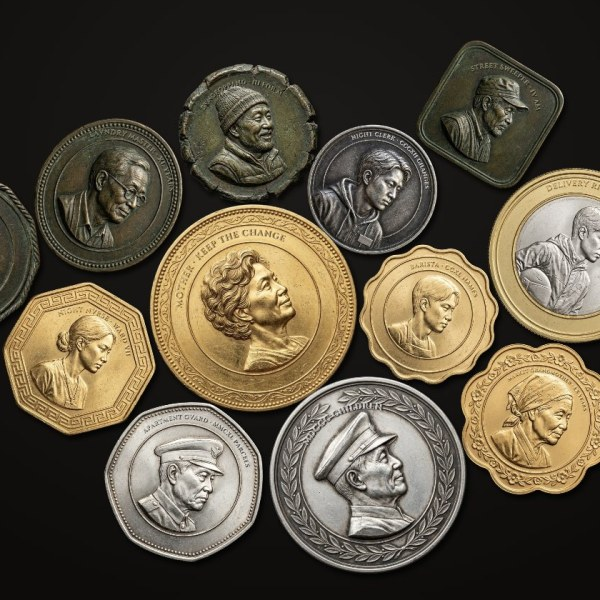
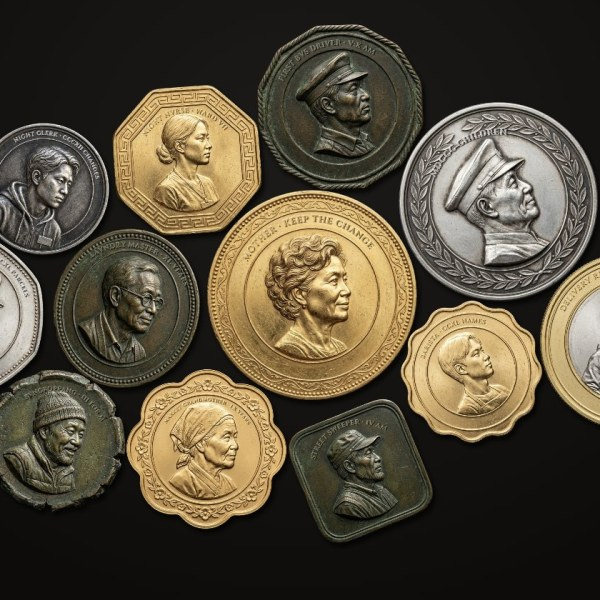
day-261126 동전 더미를 화면 비율에 맞춰 펼치고 여백 고르게

diff --git a/day-261126/main.js b/day-261126/main.js
@@ -135,19 +135,22 @@ async function init() {
   });
   const seedP = els.map(() => [Math.random() * 2 - 1, Math.random() * 2 - 1]);
   function scatter() {
-    const W = innerWidth, mob = W < 760, top = 50, pad = 14, H = mob ? Math.max(innerHeight, 760) : innerHeight;
-    const aw = W - pad * 2, ah = H - top - pad, cx0 = W / 2, cy0 = top + ah / 2, m2 = els.reduce((a, e) => a + e.sz * e.sz, 0);
-    const d0 = Math.min(250, Math.sqrt(aw * ah * (mob ? .6 : .5) / (.785 * m2)));
-    const sx = mob ? 1 : Math.min(1.6, aw / ah), P = els.map((e, i) => ({ r: d0 * e.sz / 2, x: cx0 + seedP[i][0] * aw * .08, y: cy0 + seedP[i][1] * ah * .08 }));
+    const W = innerWidth, mob = W < 760, top = mob ? 56 : Math.max(70, innerHeight * .1), pad = mob ? 16 : Math.max(60, W * .07), H = mob ? Math.max(innerHeight, 760) : innerHeight;
+    const aw = W - pad * 2, ah = H - top - (mob ? 24 : top * .8), cx0 = W / 2, cy0 = top + ah / 2, m2 = els.reduce((a, e) => a + e.sz * e.sz, 0);
+    const d0 = Math.min(300, Math.sqrt(aw * ah * (mob ? .6 : .6) / (.785 * m2)));
+    const sx = Math.max(.45, Math.min(2.2, aw / ah)), P = els.map((e, i) => ({ r: d0 * e.sz / 2, x: cx0 + seedP[i][0] * aw * .08, y: cy0 + seedP[i][1] * ah * .08 }));
     for (let it = 0; it < 600; it++) {
       const pull = it < 450 ? .04 : .01;
-      P.forEach(p => { p.x += (cx0 - p.x) * pull / sx; p.y += (cy0 - p.y) * pull * sx * .9; });
+      P.forEach(p => { p.x += (cx0 - p.x) * pull / (sx * sx); p.y += (cy0 - p.y) * pull; });
       for (let a = 0; a < P.length; a++) for (let b = a + 1; b < P.length; b++) {
         const A = P[a], B = P[b], dx = B.x - A.x, dy = B.y - A.y, d = Math.hypot(dx, dy) || .01, need = (A.r + B.r) * .985 + 2;
         if (d < need) { const push = (need - d) / 2, ux = dx / d, uy = dy / d; A.x -= ux * push; A.y -= uy * push; B.x += ux * push; B.y += uy * push; }
       }
-      P.forEach(p => { p.x = Math.min(W - pad - p.r, Math.max(pad + p.r, p.x)); p.y = Math.min(H - pad - p.r, Math.max(top + p.r, p.y)); });
     }
+    let bx0 = Infinity, bx1 = -Infinity, by0 = Infinity, by1 = -Infinity;
+    P.forEach(p => { bx0 = Math.min(bx0, p.x - p.r); bx1 = Math.max(bx1, p.x + p.r); by0 = Math.min(by0, p.y - p.r); by1 = Math.max(by1, p.y + p.r); });
+    const k = Math.min(aw / (bx1 - bx0), ah / (by1 - by0)), mx = (bx0 + bx1) / 2, my = (by0 + by1) / 2;
+    P.forEach(p => { p.x = cx0 + (p.x - mx) * k; p.y = cy0 + (p.y - my) * k; p.r *= k; });
     wall.style.height = `${H}px`;
     els.forEach((e, i) => { const p = P[i]; Object.assign(e.coin.style, { left: `${p.x - p.r}px`, top: `${p.y - p.r}px`, width: `${p.r * 2}px`, height: `${p.r * 2}px`, zIndex: Math.round(p.y) }); });
   }

diff --git a/day-261126/index.html b/day-261126/index.html
@@ -26,6 +26,6 @@
 <body>
 <header id="top"><span>잔돈 · COINS OF ORDINARY PEOPLE</span><a href="../index.html">← INDEX</a></header>
 <main id="wall"></main>
-<script type="module" src="main.js?v=8"></script>
+<script type="module" src="main.js?v=10"></script>
 </body>
 </html>
